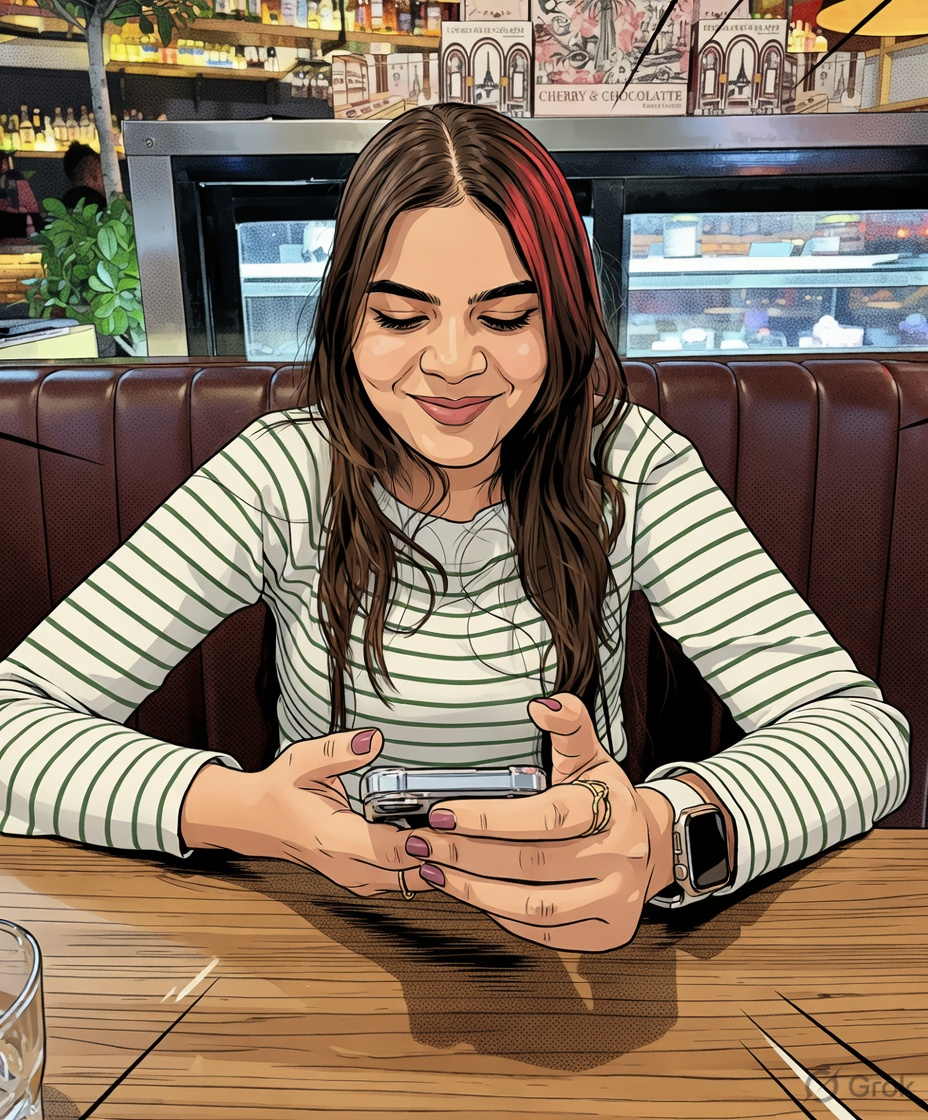
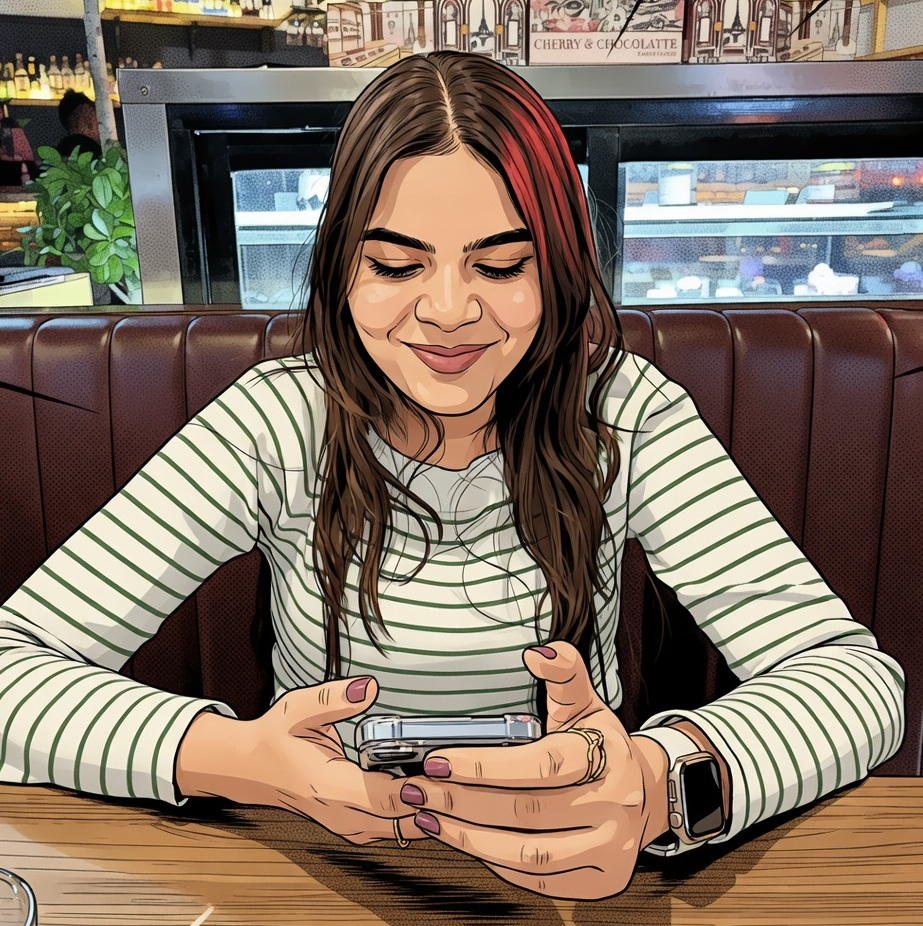
Square photo frames and updated images
Made-with: Cursor

diff --git a/index.html b/index.html
@@ -225,7 +225,7 @@
         }
         .photo-frame img {
             width: 100%; border-radius: 12px;
-            display: block; aspect-ratio: 4/3; object-fit: cover;
+            display: block; aspect-ratio: 1/1; object-fit: cover;
         }
         .photo-caption {
             font-family: 'Dancing Script', cursive;

diff --git a/deploy.py b/deploy.py
@@ -1,0 +1,21 @@
+import zipfile, io, json, urllib.request, os
+
+site_dir = os.path.dirname(os.path.abspath(__file__))
+
+buf = io.BytesIO()
+with zipfile.ZipFile(buf, 'w', zipfile.ZIP_DEFLATED) as zf:
+    zf.write(os.path.join(site_dir, 'index.html'), 'index.html')
+data = buf.getvalue()
+
+req = urllib.request.Request(
+    'https://api.netlify.com/api/v1/sites',
+    data=data,
+    headers={'Content-Type': 'application/zip'},
+    method='POST'
+)
+with urllib.request.urlopen(req) as resp:
+    result = json.loads(resp.read())
+
+print(f"\nYour site is LIVE!\n")
+print(f"   URL:  https://{result['subdomain']}.netlify.app")
+print(f"   Admin: {result.get('admin_url', 'N/A')}\n")

diff --git a/AGENTS.md b/AGENTS.md
@@ -1,0 +1,24 @@
+<!-- VERCEL BEST PRACTICES START -->
+## Best practices for developing on Vercel
+
+These defaults are optimized for AI coding agents (and humans) working on apps that deploy to Vercel.
+
+- Treat Vercel Functions as stateless + ephemeral (no durable RAM/FS, no background daemons), use Blob or marketplace integrations for preserving state
+- Edge Functions (standalone) are deprecated; prefer Vercel Functions
+- Don't start new projects on Vercel KV/Postgres (both discontinued); use Marketplace Redis/Postgres instead
+- Store secrets in Vercel Env Variables; not in git or `NEXT_PUBLIC_*`
+- Provision Marketplace native integrations with `vercel integration add` (CI/agent-friendly)
+- Sync env + project settings with `vercel env pull` / `vercel pull` when you need local/offline parity
+- Use `waitUntil` for post-response work; avoid the deprecated Function `context` parameter
+- Set Function regions near your primary data source; avoid cross-region DB/service roundtrips
+- Tune Fluid Compute knobs (e.g., `maxDuration`, memory/CPU) for long I/O-heavy calls (LLMs, APIs)
+- Use Runtime Cache for fast **regional** caching + tag invalidation (don't treat it as global KV)
+- Use Cron Jobs for schedules; cron runs in UTC and triggers your production URL via HTTP GET
+- Use Vercel Blob for uploads/media; Use Edge Config for small, globally-read config
+- If Enable Deployment Protection is enabled, use a bypass secret to directly access them
+- Add OpenTelemetry via `@vercel/otel` on Node; don't expect OTEL support on the Edge runtime
+- Enable Web Analytics + Speed Insights early
+- Use AI Gateway for model routing, set AI_GATEWAY_API_KEY, using a model string (e.g. 'anthropic/claude-sonnet-4.6'), Gateway is already default in AI SDK
+  needed. Always curl https://ai-gateway.vercel.sh/v1/models first; never trust model IDs from memory
+- For durable agent loops or untrusted code: use Workflow (pause/resume/state) + Sandbox; use Vercel MCP for secure infra access
+<!-- VERCEL BEST PRACTICES END -->
